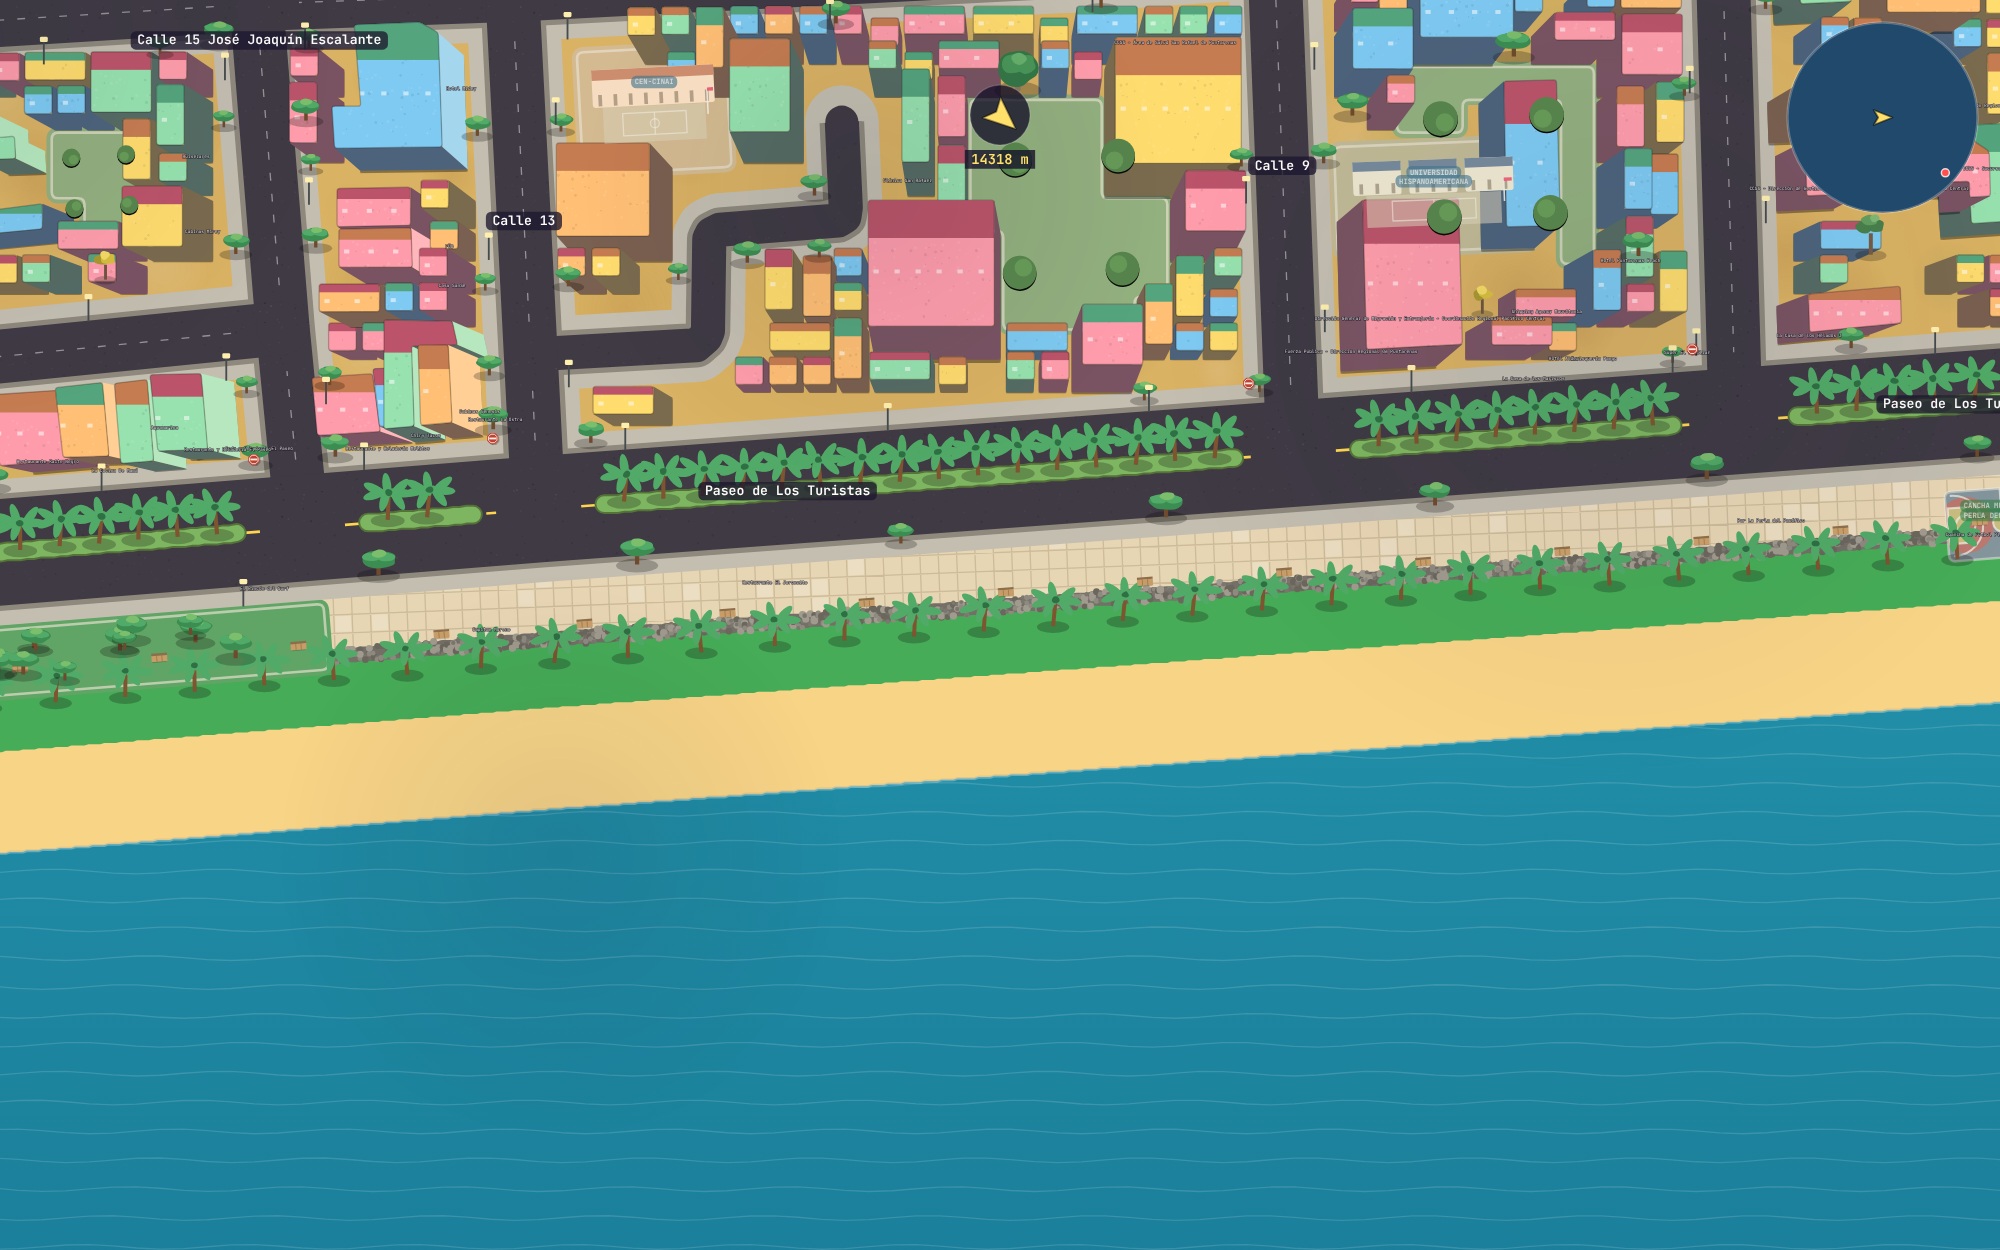
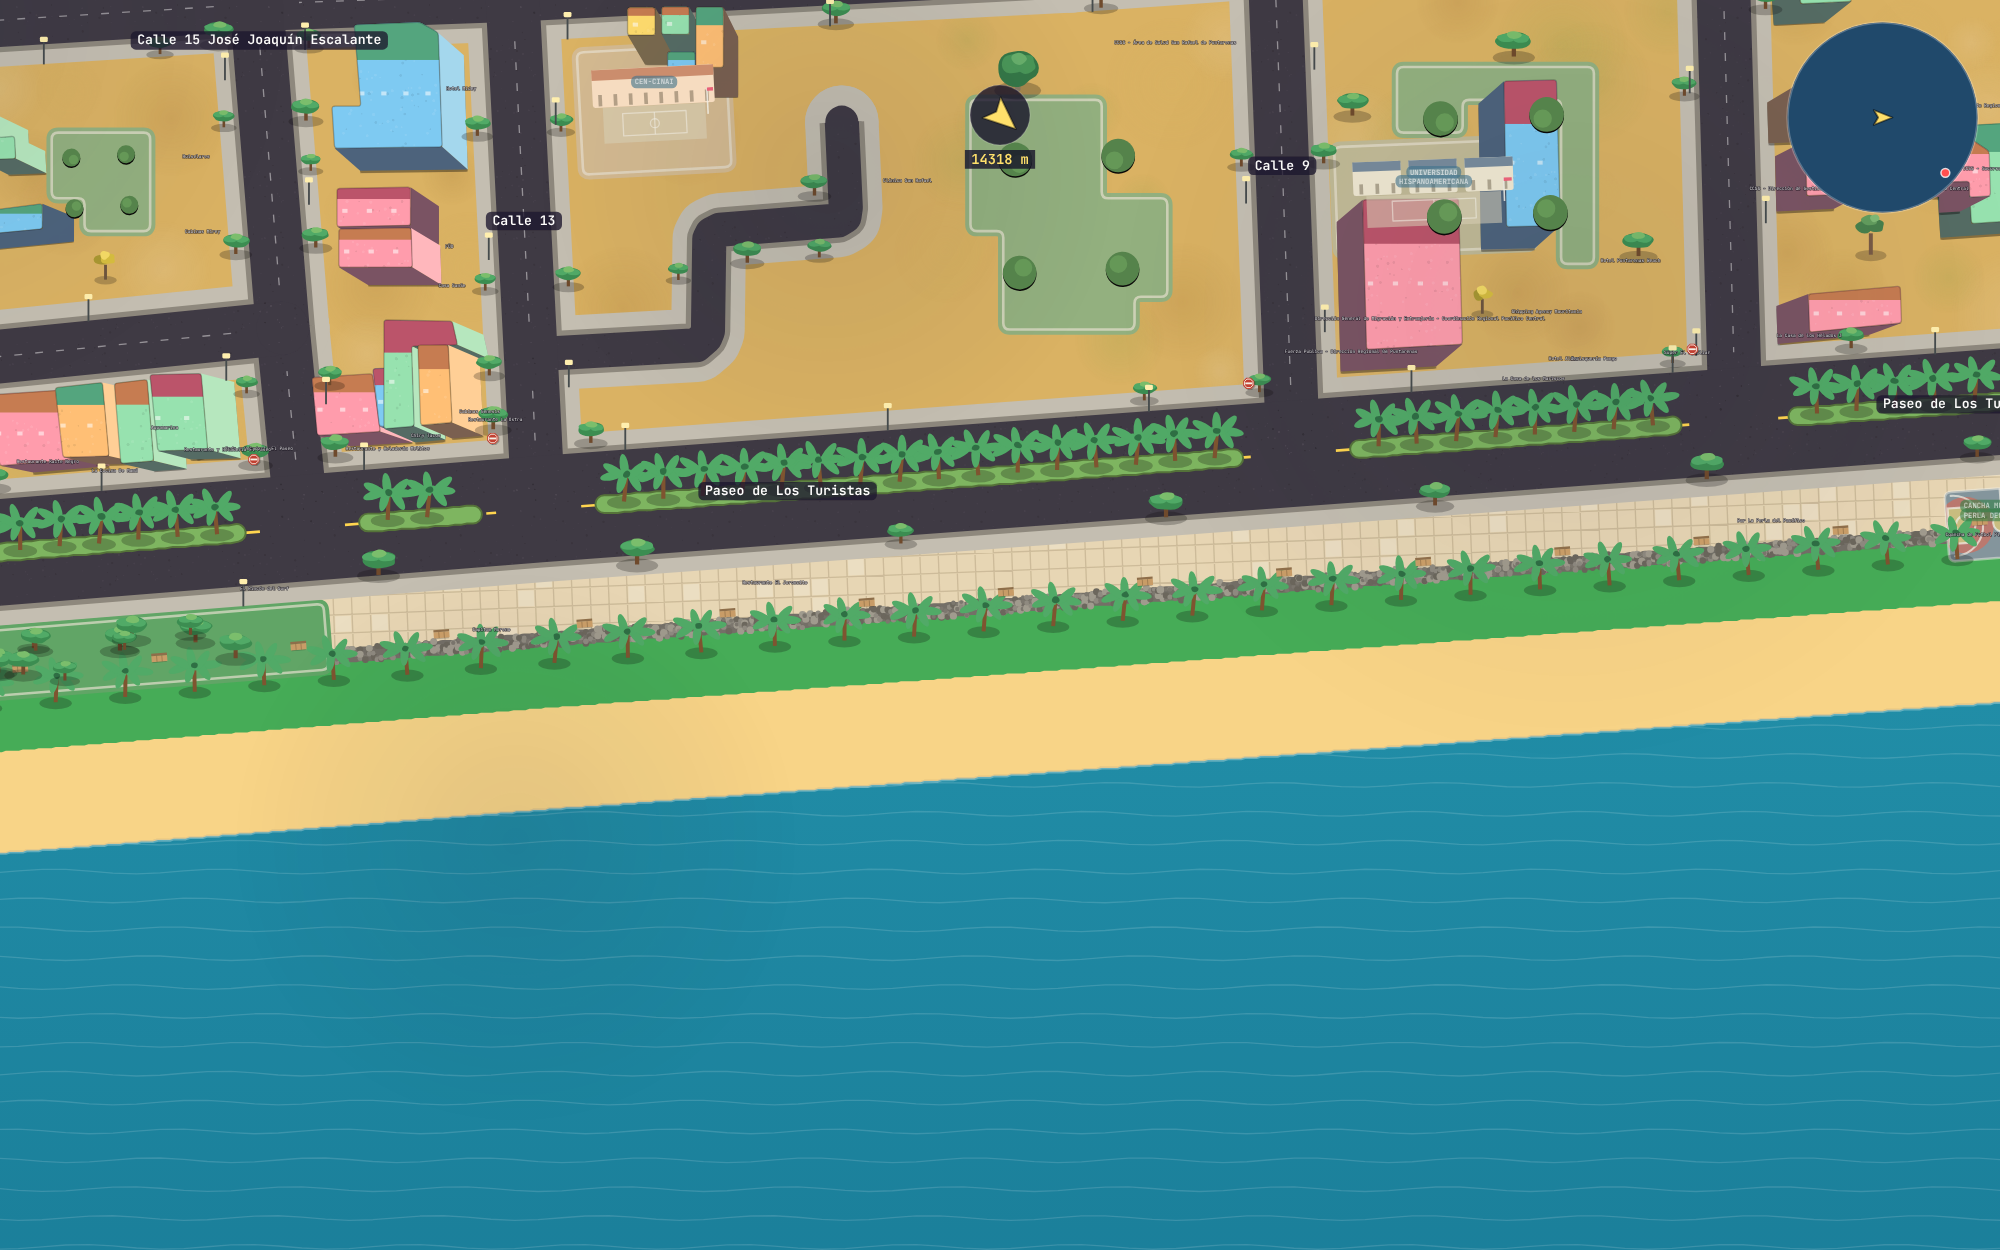
feat(render): sólo los edificios con nombre — las huellas genéricas dejan de cargarse
El mapa traía ~37 000 edificios genéricos (huellas de OSM sin nombre más
lotes y casonas sintetizados) y se leía saturado. building-styles.json →
show.unnamed: false hace que el cliente sólo cargue las ~570 huellas con
nombre, más las de una parcela autorada (parcelId) o de la cuadra del
Parque Marino (osmId). Se filtra al decodificar el tile, así que dibujo,
capa 3-D y colisión ven lo mismo; la manzana sigue siendo tierra en el
ráster. Sin reconstruir; true lo devuelve todo.

Verificado: pnpm build, tools/smoke.mjs (sin errores de página).

Claude-Session: https://claude.ai/code/session_018GSydhWuDAT4g4GG3QKVY6

diff --git a/src/world2d/index.js b/src/world2d/index.js
@@ -11,6 +11,7 @@
 // Call `WORLD2D.ready(x, y)` once before the sim starts, and `WORLD2D.update(x,
 // y)` each frame to keep the tiles around the camera resident.
 import manifest from "./manifest.json";
+import BUILDING_STYLES from "../assets/building-styles.json";
 // The grid's vocabulary, generated from churchill/world/enums/surface.py — the
 // same enum whose values are the bytes this file decodes out of the RLE.
 import { SURFACE } from "../domain/vocabulary.generated.js";
@@ -283,7 +284,10 @@ export const WORLD2D = (function () {
     if (zCols && zColsPerTile && zColsPerTile !== zCols)
       throw new Error(`inconsistent elevation lattice: ${zColsPerTile} vs ${zCols}`);
     const z = raw.zRle ? decodeZ(raw.zRle, zCols * zCols) : null;
-    const buildings = (raw.buildings || []).map((b) => ({
+    // SÓLO LAS HUELLAS CON NOMBRE (o de una parcela autorada), salvo que el registro pida todas:
+    // `building-styles.json` → `show.unnamed`. Se filtra aquí para que dibujo y colisión coincidan.
+    const showAll = BUILDING_STYLES.show?.unnamed !== false;
+    const buildings = (raw.buildings || []).filter((b) => showAll || b.name || b.parcelId || b.osmId).map((b) => ({
       pts: b.pts, aabb: flatAABB(b.pts), color: b.color, roof: b.roof, wnd: b.wnd,
     }));
     // 64px building hash local to the tile (buildingsNear hits only same tile;
